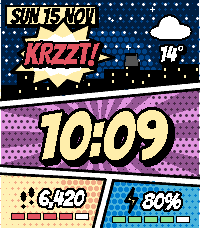
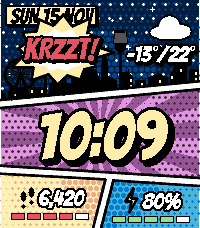
Vienna skyline with the signal on the Donauturm
Replace the generic block skyline with Vienna: Riesenrad,
Karlskirche (dome and its two columns), Stephansdom (steep roof and
spire), Donauturm, which now carries the hero signal's searchlight,
and DC Tower, in front of low Gruenderzeit houses. Landmarks are
polygons in screen-height-relative units, placed per screen shape so
they stay clear of the emblem, the weather icon and the temperature.

Claude-Session: https://claude.ai/code/session_018Kv7eDqzGjxn9kZXyPpq7g

Changed region(s): [[0.0, 0.0614, 1.0, 0.4298]]

diff --git a/src/c/scene.c b/src/c/scene.c
@@ -2,9 +2,11 @@
  * The comic page.
  *
  *  +---------------------------------+
- *  | DATE caption      weather  temp |  SKY: halftone sky, skyline, and the
- *  |        (signal)  /              |  hero signal beamed from a rooftop.
- *  |   ___|^|__ ___/|__|^^|___       |  Signal cuts out -> "KRZZT!" burst.
+ *  | DATE caption      weather  temp |  SKY: halftone sky, the Vienna skyline
+ *  |   (signal)       |              |  (Riesenrad, Karlskirche, Stephansdom,
+ *  |  O  _n_   /\    =T=     |]     |  Donauturm, DC Tower) and the hero
+ *  | (+) | |  /| |    |      ||     |  signal beamed from the Donauturm.
+ *  |_/_\_|_|__|_|____|______||_____ |  Signal cuts out -> "KRZZT!" burst.
  *  |\_______________________________ |
  *  |        12:34                    |  ACTION: speed rays + halftone in the
  *  | ________________________________|  hero colour, comic-lettered time.
@@ -92,8 +94,10 @@ typedef struct {
   GPoint time_center;
   GPoint steps_anchor, batt_anchor;
   int16_t content_w;
-  int8_t signal_building;
+  int16_t lm_x[5];  // landmark positions (permille of width), see LM_*
 } Layout;
+
+enum { LM_RIESENRAD, LM_KARLSKIRCHE, LM_STEPHANSDOM, LM_DONAUTURM, LM_DC_TOWER };
 
 #define PM(v, total) ((int32_t)(v) * (total) / 1000)
 
@@ -149,11 +153,12 @@ static void layout_compute(Layout *l, GRect bounds) {
     l->caption = GPoint(w / 2, PM(80, h));
     l->weather = GPoint(PM(700, w), PM(220, h));
     l->wsize = PM(62, w);
-    l->emblem = GPoint(PM(335, w), PM(255, h));
+    l->emblem = GPoint(PM(330, w), PM(220, h));
     l->erx = PM(100, w);
     l->ery = PM(56, h);
     l->content_w = PM(230, w);
-    l->signal_building = 6;
+    static const int16_t LM_ROUND[] = {130, 300, 440, 560, 820};
+    memcpy(l->lm_x, LM_ROUND, sizeof(l->lm_x));
     // Small round screens (chalk) need the two blocks pushed further apart.
     int16_t sx = PM(w < 200 ? 300 : 335, w), bx = PM(w < 200 ? 690 : 650, w);
     int16_t sy = line_y(l->b0, l->b1, sx) + g, by = line_y(l->b0, l->b1, bx) + g;
@@ -163,11 +168,12 @@ static void layout_compute(Layout *l, GRect bounds) {
     l->caption = GPoint(g + 1, g + 1);
     l->weather = GPoint(w - PM(150, w), PM(125, h));
     l->wsize = PM(85, w);
-    l->emblem = GPoint(PM(300, w), PM(225, h));
+    l->emblem = GPoint(PM(300, w), PM(205, h));
     l->erx = PM(120, w);
     l->ery = PM(64, h);
     l->content_w = PM(400, w);
-    l->signal_building = 7;
+    static const int16_t LM_RECT[] = {100, 300, 450, 600, 900};
+    memcpy(l->lm_x, LM_RECT, sizeof(l->lm_x));
     int16_t sx = PM(255, w), bx = PM(760, w);
     int16_t sy = line_y(l->b0, l->b1, sx) + g, by = line_y(l->b0, l->b1, bx) + g;
     l->steps_anchor = GPoint(sx, (sy + h) / 2);
@@ -355,46 +361,170 @@ NOINLINE static void weather_icon(GContext *ctx, const Layout *l, const Scene *s
   }
 }
 
-/* x position (permille), width (permille), height (permille of screen height) */
-static const int16_t SKYLINE[][3] = {
-    {-20, 110, 70},  {80, 85, 115},  {160, 115, 60},  {270, 70, 125}, {335, 95, 85},
-    {425, 95, 55},   {515, 105, 90}, {615, 85, 95},   {695, 115, 70}, {805, 75, 120},
-    {875, 140, 80},
-};
+/* ---------------------------------------------------------------------------
+ * Vienna skyline
+ *
+ * Landmarks are authored in "units" (pixels on the 228 px tall Pebble Time 2),
+ * x centred on the landmark, y measured UP from its base on the panel border,
+ * and scaled with the screen height. Everything is clipped to the sky panel.
+ * ------------------------------------------------------------------------- */
 
-static int16_t building_top(const Layout *l, int i, int16_t *x, int16_t *bw) {
-  *x = PM(SKYLINE[i][0], l->w);
-  *bw = PM(SKYLINE[i][1], l->w);
-  int16_t base = line_y(l->a0, l->a1, *x + *bw / 2) - l->g;
-  int16_t height =
-      i == l->signal_building ? PM(l->round ? 120 : 110, l->h) : PM(SKYLINE[i][2], l->h);
-  return base - height;
+typedef struct {
+  int16_t cx, base, h;
+} Anchor;
+
+static Anchor anchor_at(const Layout *l, int16_t cx) {
+  return (Anchor){cx, line_y(l->a0, l->a1, cx) - l->g, l->h};
 }
 
-NOINLINE static void skyline(GContext *ctx, const Layout *l, const SkyPalette *pal, bool night) {
-  for (unsigned i = 0; i < ARRAY_LENGTH(SKYLINE); i++) {
-    int16_t x, bw;
-    int16_t top = building_top(l, i, &x, &bw);
-    int16_t bottom = l->a0.y + l->g + 4;
-    rect_fill(ctx, GRect(x, top, bw, bottom - top), &l->sky, pal->building);
-    // Windows
-    graphics_context_set_fill_color(ctx, pal->window);
-    int k = 0;
-    for (int16_t wy = top + 4; wy < bottom; wy += 7) {
-      for (int16_t wx = x + 3; wx < x + bw - 3; wx += 6, k++) {
-        bool lit = night ? ((k * 7 + i * 3) % 5 < 2) : ((k * 5 + i) % 4 == 0);
-        if (!lit) continue;
-        if (!region_contains(&l->sky, GPoint(wx + 2, wy + 3))) continue;
-        graphics_fill_rect(ctx, GRect(wx, wy, 2, 3), 0, GCornerNone);
-      }
+static GPoint ap(const Anchor *a, int x, int y) {
+  return GPoint(a->cx + x * a->h / 228, a->base - y * a->h / 228);
+}
+
+static int16_t au(const Anchor *a, int v) {
+  return v * a->h / 228;
+}
+
+NOINLINE static void a_poly(GContext *ctx, const Layout *l, const Anchor *a,
+                            const int8_t (*pts)[2], int n, GColor c) {
+  static Poly p;
+  p.n = n;
+  for (int i = 0; i < n; i++) p.p[i] = ap(a, pts[i][0], pts[i][1]);
+  poly_fill(ctx, &p, &l->sky, c);
+}
+
+/* Rectangle from (x0, y0) to (x1, y1) in units; y0 below 0 reaches under the slanted border. */
+NOINLINE static void a_rect(GContext *ctx, const Layout *l, const Anchor *a, int x0, int y0,
+                            int x1, int y1, GColor c) {
+  static Poly p;
+  p.n = 4;
+  p.p[0] = ap(a, x0, y1);
+  p.p[1] = ap(a, x1, y1);
+  p.p[2] = ap(a, x1, y0);
+  p.p[3] = ap(a, x0, y0);
+  poly_fill(ctx, &p, &l->sky, c);
+}
+
+/* Lit windows on a facade: a grid of 2x3 px lights, some on. */
+NOINLINE static void windows(GContext *ctx, const Layout *l, GRect r, int seed, bool night,
+                             GColor color) {
+  graphics_context_set_fill_color(ctx, color);
+  int k = 0;
+  for (int16_t wy = r.origin.y + 3; wy < r.origin.y + r.size.h - 2; wy += 6) {
+    for (int16_t wx = r.origin.x + 2; wx < r.origin.x + r.size.w - 2; wx += 5, k++) {
+      bool lit = night ? ((k * 7 + seed * 3) % 5 < 2) : ((k * 5 + seed) % 4 == 0);
+      if (!lit || !region_contains(&l->sky, GPoint(wx + 1, wy + 2))) continue;
+      if (!on_canvas(GPoint(wx + 1, wy + 1), 2)) continue;
+      graphics_fill_rect(ctx, GRect(wx, wy, 2, 3), 0, GCornerNone);
     }
   }
 }
 
+/* Gruenderzeit houses along the whole panel, behind the landmarks. */
+NOINLINE static void houses(GContext *ctx, const Layout *l, const SkyPalette *pal, bool night) {
+  int16_t x = -6;
+  for (int i = 0; x < l->w + 6; i++) {
+    // Low on purpose, so the landmarks stand out.
+    int16_t wu = 12 + (i * 7 % 4) * 3, hu = 6 + (i * 5 % 4) * 2;
+    Anchor a = anchor_at(l, x + au(&(Anchor){0, 0, l->h}, wu) / 2);
+    a_rect(ctx, l, &a, -wu / 2, -10, wu - wu / 2, hu, pal->building);
+    if (i % 3 == 0) {  // gable roof
+      const int8_t roof[][2] = {{-wu / 2, hu}, {wu - wu / 2, hu}, {0, hu + 5}};
+      a_poly(ctx, l, &a, roof, 3, pal->building);
+    } else if (i % 3 == 1) {  // mansard roof with a chimney
+      const int8_t roof[][2] = {{-wu / 2, hu}, {wu - wu / 2, hu}, {wu / 2 - 3, hu + 4},
+                                {-wu / 2 + 3, hu + 4}};
+      a_poly(ctx, l, &a, roof, 4, pal->building);
+      a_rect(ctx, l, &a, 2, hu + 3, 4, hu + 7, pal->building);
+    }
+    GPoint tl = ap(&a, -wu / 2, hu);
+    windows(ctx, l, GRect(tl.x, tl.y, au(&a, wu), au(&a, hu) + 6), i, night, pal->window);
+    x += au(&a, wu) + 1;
+  }
+}
+
+NOINLINE static void riesenrad(GContext *ctx, const Layout *l, const Anchor *a, GColor c) {
+  GPoint hub = ap(a, 0, 24);
+  int r = au(a, 16);
+  line_draw(ctx, ap(a, -10, -4), hub, &l->sky, c, 2);
+  line_draw(ctx, ap(a, 10, -4), hub, &l->sky, c, 2);
+  ellipse_outline(ctx, hub, r, r, c, 2);
+  for (int i = 0; i < 6; i++) {
+    int32_t ang = TRIG_MAX_ANGLE * i / 12;
+    int dx = r * cos_lookup(ang) / TRIG_MAX_RATIO, dy = r * sin_lookup(ang) / TRIG_MAX_RATIO;
+    line_draw(ctx, GPoint(hub.x - dx, hub.y - dy), GPoint(hub.x + dx, hub.y + dy), &l->sky, c, 1);
+  }
+  graphics_context_set_fill_color(ctx, c);
+  for (int i = 0; i < 10; i++) {  // gondolas
+    int32_t ang = TRIG_MAX_ANGLE * i / 10;
+    GPoint g = GPoint(hub.x + r * cos_lookup(ang) / TRIG_MAX_RATIO,
+                      hub.y + r * sin_lookup(ang) / TRIG_MAX_RATIO);
+    if (on_canvas(g, 3)) graphics_fill_rect(ctx, GRect(g.x - 1, g.y, 3, 3), 0, GCornerNone);
+  }
+  a_rect(ctx, l, a, -12, -10, 12, 2, c);
+}
+
+NOINLINE static void karlskirche(GContext *ctx, const Layout *l, const Anchor *a, GColor c) {
+  a_rect(ctx, l, a, -12, -10, 12, 11, c);              // church
+  a_rect(ctx, l, a, -6, 11, 6, 19, c);                 // drum
+  ellipse_fill(ctx, ap(a, 0, 19), au(a, 7), au(a, 7), &l->sky, c);  // dome
+  a_rect(ctx, l, a, -1, 25, 1, 31, c);                 // lantern
+  const int8_t pediment[][2] = {{-9, 11}, {9, 11}, {0, 16}};
+  a_poly(ctx, l, a, pediment, 3, c);
+  for (int side = -1; side <= 1; side += 2) {          // the two columns
+    a_rect(ctx, l, a, side * 15 - 2, -10, side * 15 + 2, 23, c);
+    a_rect(ctx, l, a, side * 15 - 3, 23, side * 15 + 3, 25, c);
+    a_rect(ctx, l, a, side * 15 - 1, 25, side * 15 + 1, 27, c);
+  }
+}
+
+NOINLINE static void stephansdom(GContext *ctx, const Layout *l, const Anchor *a, GColor c) {
+  a_rect(ctx, l, a, -17, -10, 11, 10, c);              // nave
+  const int8_t roof[][2] = {{-17, 10}, {11, 10}, {6, 22}, {-12, 22}};  // the steep roof
+  a_poly(ctx, l, a, roof, 4, c);
+  a_rect(ctx, l, a, 10, -10, 18, 28, c);               // south tower
+  const int8_t spire[][2] = {{10, 28}, {18, 28}, {14, 50}};
+  a_poly(ctx, l, a, spire, 3, c);
+  a_rect(ctx, l, a, -20, -10, -14, 16, c);             // north tower stump
+}
+
+#define DONAUTURM_TOP 45
+
+NOINLINE static void donauturm(GContext *ctx, const Layout *l, const Anchor *a, GColor c) {
+  a_rect(ctx, l, a, -2, -10, 2, 38, c);                // shaft
+  const int8_t head[][2] = {{-2, 35}, {2, 35}, {6, 39}, {6, DONAUTURM_TOP},
+                            {-6, DONAUTURM_TOP}, {-6, 39}};
+  a_poly(ctx, l, a, head, 6, c);
+}
+
+NOINLINE static void dc_tower(GContext *ctx, const Layout *l, const Anchor *a, GColor c,
+                              const SkyPalette *pal, bool night) {
+  const int8_t slab[][2] = {{-7, -10}, {7, -10}, {7, 36}, {0, 40}, {-7, 38}};
+  a_poly(ctx, l, a, slab, 5, c);
+  GPoint tl = ap(a, -7, 34);
+  windows(ctx, l, GRect(tl.x, tl.y, au(a, 14), au(a, 34)), 7, night, pal->window);
+}
+
+NOINLINE static void skyline(GContext *ctx, const Layout *l, const SkyPalette *pal, bool night) {
+  houses(ctx, l, pal, night);
+  const GColor c = pal->building;
+  Anchor a = anchor_at(l, PM(l->lm_x[LM_RIESENRAD], l->w));
+  riesenrad(ctx, l, &a, c);
+  a = anchor_at(l, PM(l->lm_x[LM_KARLSKIRCHE], l->w));
+  karlskirche(ctx, l, &a, c);
+  a = anchor_at(l, PM(l->lm_x[LM_STEPHANSDOM], l->w));
+  stephansdom(ctx, l, &a, c);
+  a = anchor_at(l, PM(l->lm_x[LM_DONAUTURM], l->w));
+  donauturm(ctx, l, &a, c);
+  a = anchor_at(l, PM(l->lm_x[LM_DC_TOWER], l->w));
+  dc_tower(ctx, l, &a, c, pal, night);
+}
+
+/* The hero signal's searchlight sits on top of the Donauturm. */
 static GPoint signal_lamp(const Layout *l) {
-  int16_t x, bw;
-  int16_t top = building_top(l, l->signal_building, &x, &bw);
-  return GPoint(x + bw / 2, top - 3);
+  Anchor a = anchor_at(l, PM(l->lm_x[LM_DONAUTURM], l->w));
+  GPoint top = ap(&a, 0, DONAUTURM_TOP);
+  return GPoint(top.x, top.y - (l->w / 40 + 2));
 }
 
 static int32_t isqrt32(int32_t v) {

diff --git a/README.md b/README.md
@@ -2,7 +2,8 @@
 
 A superhero comic watchface for Pebble. The time is lettered big in a comic
 panel full of speed lines and halftone dots. Above it, a hero signal shines over
-the city skyline while your phone is connected. **When the connection drops, the
+the Vienna skyline (Riesenrad, Karlskirche, Stephansdom, DC Tower, with the
+searchlight on top of the Donauturm) while your phone is connected. **When the connection drops, the
 signal cuts out with a "KRZZT!" and the watch vibrates**, so you can't walk away
 from your phone without noticing.
 
@@ -47,7 +48,8 @@ the face relies on colour.
 ## How it's built
 
 - **Watch (C, `src/c/`):** everything is drawn procedurally, with no bitmaps.
-  `comic.c` is a small comic toolkit: convex panels with polygon clipping
+  The Vienna landmarks in `scene.c` are small polygon drawings in
+  screen-height-relative units. `comic.c` is a small comic toolkit: convex panels with polygon clipping
   (Sutherland–Hodgman), Ben-Day halftone, speed rays, sound-effect bursts and
   outlined lettering. `scene.c` lays out the page for rectangular and round
   screens of any size, and `main.c` holds the state and watch services.
